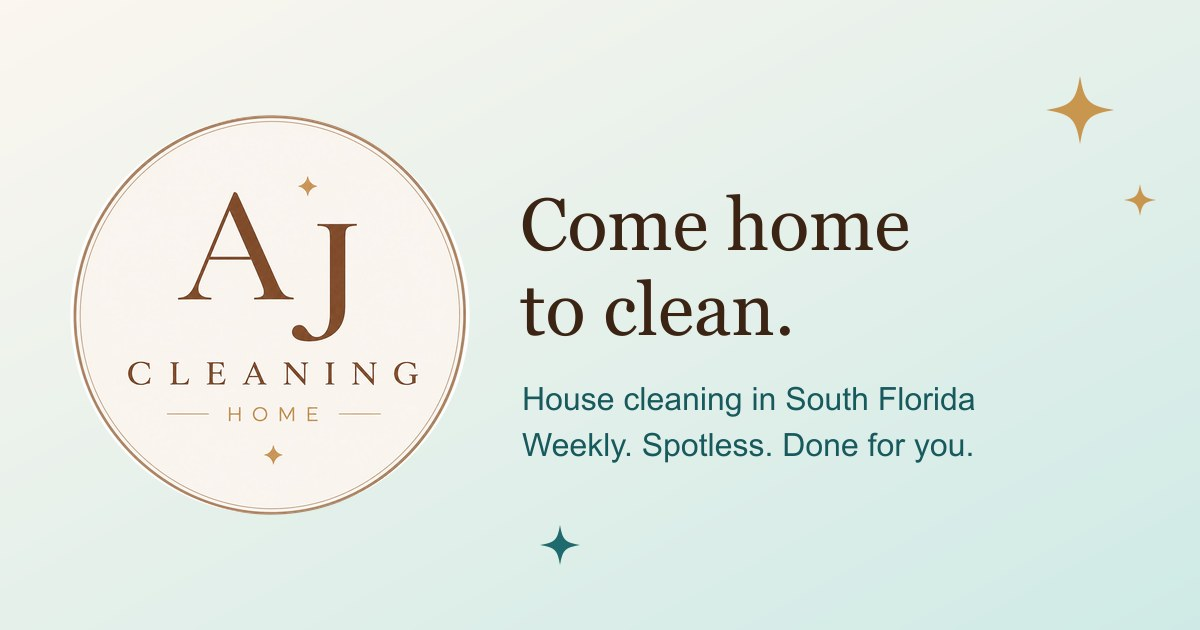
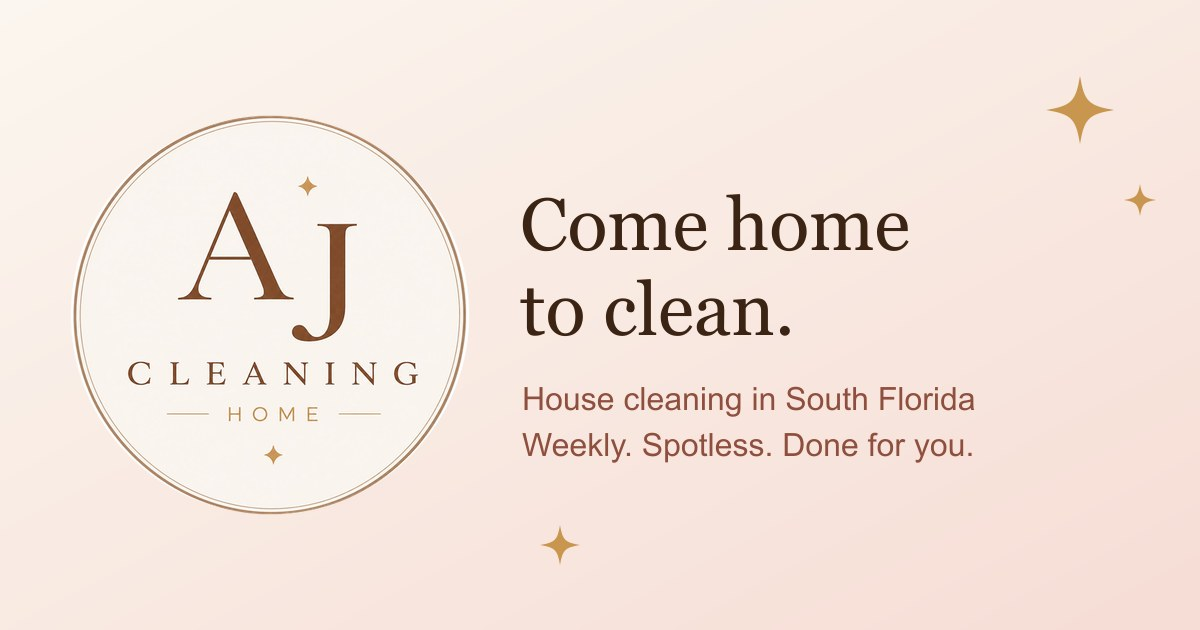
Paleta pastel sin azul ni verde y fotos reales del cliente
- Escala verde-azul reemplazada por rosa pastel (--blush-*) y durazno (--peach),
  con café cacao del logo para botones y texto. Contrastes AA verificados.
- Sección de planes pasa de fondo oscuro a durazno claro.
- Imagen Open Graph regenerada con la paleta nueva.
- Fotos del cliente: cocina de roble en "cuarto por cuarto" y cocina gris en
  ventanas/alfombras/electrodomésticos, recortadas y sin metadatos.

diff --git a/src/styles/global.css b/src/styles/global.css
@@ -8,13 +8,14 @@
   --ink-soft: #6b5242;
   --gold: #c8964f;
   /* Limpieza: verde mar pastel, complementario del café. */
-  --sea-50: #eef8f6;
-  --sea-100: #d9f0ec;
-  --sea-200: #bfe5df;
-  --sea-300: #98d4cc;
-  --sea-700: #17595c;
-  --sea-800: #134a4d;
-  --sea-900: #0f3a3d;
+  --peach: #fbe7d6;
+  --blush-50: #fdf4f1;
+  --blush-100: #f8e6e0;
+  --blush-200: #f0d0c6;
+  --blush-300: #e4b3a5;
+  --blush-700: #8e4f3e;
+  --blush-800: #763f31;
+  --blush-900: #4a2a20;
   --line: rgb(60 36 21 / 0.14);
 
   --display: 'Cormorant Garamond', Georgia, 'Times New Roman', serif;
@@ -34,7 +35,7 @@ button, input, select, textarea { font: inherit; color: inherit; }
 h1, h2, h3 { margin: 0; font-weight: 600; }
 p { margin: 0; }
 ul, ol { margin: 0; padding: 0; list-style: none; }
-:focus-visible { outline: 3px solid var(--sea-700); outline-offset: 3px; border-radius: 6px; }
+:focus-visible { outline: 3px solid var(--blush-700); outline-offset: 3px; border-radius: 6px; }
 
 @view-transition { navigation: auto; }
 
@@ -48,18 +49,18 @@ ul, ol { margin: 0; padding: 0; list-style: none; }
 h2.display, .h2 { font-family: var(--display); font-weight: 600; font-size: clamp(2.6rem, 5.6vw, 4.8rem); letter-spacing: -0.015em; line-height: 0.98; }
 .lead { font-size: clamp(1.1rem, 1.6vw, 1.3rem); color: var(--ink-soft); max-width: 46ch; }
 
-.kicker { display: inline-flex; align-items: center; gap: 10px; font-size: 0.8rem; font-weight: 600; letter-spacing: 0.16em; text-transform: uppercase; color: var(--sea-700); }
+.kicker { display: inline-flex; align-items: center; gap: 10px; font-size: 0.8rem; font-weight: 600; letter-spacing: 0.16em; text-transform: uppercase; color: var(--blush-700); }
 .kicker .star { width: 13px; height: 13px; fill: var(--gold); flex: none; }
 
 .btn { display: inline-flex; align-items: center; justify-content: center; gap: 10px; min-height: 54px; padding: 12px 28px; border: 1.5px solid transparent; border-radius: 999px; font-weight: 600; font-size: 1.02rem; line-height: 1.15; text-decoration: none; cursor: pointer; background: none; transition: transform 0.25s var(--ease), background 0.25s, color 0.25s, border-color 0.25s, box-shadow 0.25s; }
 .btn svg { width: 19px; height: 19px; flex: none; transition: translate 0.25s var(--ease); }
 .btn:hover { transform: translateY(-2px); }
 .btn:hover svg:last-child { translate: 3px 0; }
-.btn--primary { background: var(--sea-700); color: #fff; box-shadow: 0 14px 30px -14px rgb(19 74 77 / 0.7); }
-.btn--primary:hover { background: var(--sea-800); }
+.btn--primary { background: var(--blush-700); color: #fff; box-shadow: 0 14px 30px -14px rgb(118 63 49 / 0.7); }
+.btn--primary:hover { background: var(--blush-800); }
 .btn--line { border-color: rgb(60 36 21 / 0.35); color: var(--ink); }
 .btn--line:hover { background: var(--ink); border-color: var(--ink); color: #fff; }
-.btn--cream { background: var(--cream); color: var(--sea-900); }
+.btn--cream { background: var(--cream); color: var(--blush-900); }
 .btn--cream:hover { background: #fff; }
 .btn--wa { background: #1f8f55; color: #fff; }
 .btn--wa:hover { background: #18774a; }
@@ -75,7 +76,7 @@ h2.display, .h2 { font-family: var(--display); font-weight: 600; font-size: clam
 }
 
 /* Páginas internas */
-.page-hero { position: relative; padding-block: clamp(120px, 15vw, 176px) clamp(44px, 6vw, 72px); background: linear-gradient(165deg, var(--cream) 30%, var(--sea-100)); overflow: hidden; }
+.page-hero { position: relative; padding-block: clamp(120px, 15vw, 176px) clamp(44px, 6vw, 72px); background: linear-gradient(165deg, var(--cream) 30%, var(--blush-100)); overflow: hidden; }
 .page-hero h1 { font-family: var(--display); font-size: clamp(2.8rem, 6.6vw, 5.4rem); line-height: 0.98; letter-spacing: -0.015em; max-width: 17ch; margin: 14px 0 18px; }
 .page-hero .lead { margin-bottom: 28px; }
 .crumbs { display: flex; flex-wrap: wrap; gap: 6px; font-size: 0.9rem; color: var(--ink-soft); }
@@ -85,5 +86,5 @@ h2.display, .h2 { font-family: var(--display); font-weight: 600; font-size: clam
 .cta-row { display: flex; flex-wrap: wrap; gap: 12px; align-items: center; }
 .link-grid { display: grid; grid-template-columns: repeat(auto-fill, minmax(230px, 1fr)); gap: 12px; }
 .link-card { display: flex; align-items: center; justify-content: space-between; gap: 12px; padding: 16px 20px; background: #fff; border: 1px solid var(--line); border-radius: 16px; font-weight: 600; text-decoration: none; transition: border-color 0.2s, transform 0.3s var(--ease); }
-.link-card svg { width: 18px; height: 18px; flex: none; color: var(--sea-700); }
-.link-card:hover { border-color: var(--sea-700); transform: translateY(-2px); }
+.link-card svg { width: 18px; height: 18px; flex: none; color: var(--blush-700); }
+.link-card:hover { border-color: var(--blush-700); transform: translateY(-2px); }

diff --git a/src/lib/photos.ts b/src/lib/photos.ts
@@ -1,4 +1,7 @@
-/** Fotos de ambiente: de archivo, no trabajos del negocio. Origen en src/assets/photos/CREDITS.md. */
+/**
+ * Fotos del sitio. room-kitchen y service-addons son del cliente (AJ Cleaning Home);
+ * las demás son de archivo, no trabajos del negocio. Origen en src/assets/photos/CREDITS.md.
+ */
 import type { L } from '../data/i18n';
 import heroApartment from '../assets/photos/hero-home.jpg';
 import roomKitchen from '../assets/photos/room-kitchen.jpg';
@@ -26,7 +29,7 @@ export const heroPhoto: Photo = {
 };
 
 export const roomPhotos: Record<string, Photo> = {
-  kitchen: { src: roomKitchen, alt: { en: 'Clean kitchen with an island, wood cabinets and a wood floor', es: 'Cocina limpia con isla, gabinetes y piso de madera' } },
+  kitchen: { src: roomKitchen, alt: { en: 'Clean kitchen with oak cabinets, a white gas stove and a wood floor', es: 'Cocina limpia con gabinetes de roble, estufa de gas blanca y piso de madera' } },
   bath: { src: roomBathroom, alt: { en: 'Clean bathroom with vanity, toilet and tiled shower', es: 'Baño limpio con lavamanos, inodoro y ducha de baldosa' } },
   bedroom: { src: roomBedroom, alt: { en: 'Bedroom with a made bed and clean carpet', es: 'Habitación con la cama hecha y la alfombra limpia' } },
   living: { src: roomLiving, alt: { en: 'Living room with sofa, coffee table and wood floor', es: 'Sala con sofá, mesa de centro y piso de madera' } },
@@ -41,5 +44,5 @@ export const servicePhotos: Record<string, Photo> = {
   realtor: { src: realtor, alt: { en: 'Empty apartment with a fitted kitchen, ready to show', es: 'Apartamento vacío con cocina integral, listo para mostrar' } },
   construction: { src: construction, alt: { en: 'Apartment with a ladder still inside after a remodel', es: 'Apartamento con una escalera adentro después de una remodelación' } },
   laundry: { src: laundry, alt: { en: 'Hand loading clothes into a washing machine', es: 'Mano metiendo ropa en una lavadora' } },
-  addons: { src: addons, alt: { en: 'Kitchen with stainless steel appliances', es: 'Cocina con electrodomésticos de acero inoxidable' } },
+  addons: { src: addons, alt: { en: 'Kitchen with gray cabinets, a stainless steel stove and microwave', es: 'Cocina con gabinetes grises, estufa y microondas de acero inoxidable' } },
 };

diff --git a/src/data/services.ts b/src/data/services.ts
@@ -7,7 +7,7 @@ export type Service = {
   id: string;
   slug: L;
   icon: IconName;
-  tint: 'sea' | 'cream' | 'sand' | 'mist';
+  tint: 'blush' | 'cream' | 'sand' | 'mist';
   name: L;
   tagline: L;
   title: L;
@@ -30,7 +30,7 @@ export const services: Service[] = [
     id: 'recurring',
     slug: { en: 'recurring-house-cleaning', es: 'limpieza-recurrente' },
     icon: 'calendar',
-    tint: 'sea',
+    tint: 'blush',
     name: { en: 'Recurring cleaning', es: 'Limpieza recurrente' },
     tagline: { en: 'Your home. Always ready.', es: 'Tu casa. Siempre lista.' },
     title: { en: 'Weekly & Biweekly House Cleaning in Miami | AJ Cleaning Home', es: 'Limpieza de casas semanal y quincenal en Miami | AJ Cleaning Home' },
@@ -196,7 +196,7 @@ export const services: Service[] = [
     id: 'office',
     slug: { en: 'office-cleaning', es: 'limpieza-de-oficinas' },
     icon: 'office',
-    tint: 'sea',
+    tint: 'blush',
     name: { en: 'Office cleaning', es: 'Limpieza de oficinas' },
     tagline: { en: 'Monday-morning ready.', es: 'Lista para el lunes.' },
     title: { en: 'Office Cleaning in Miami & Fort Lauderdale | AJ Cleaning Home', es: 'Limpieza de oficinas en Miami y Fort Lauderdale | AJ Cleaning Home' },
@@ -354,7 +354,7 @@ export const services: Service[] = [
     id: 'addons',
     slug: { en: 'windows-carpet-appliance-cleaning', es: 'ventanas-alfombras-electrodomesticos' },
     icon: 'window',
-    tint: 'sea',
+    tint: 'blush',
     name: { en: 'Windows, carpets & appliances', es: 'Ventanas, alfombras y electrodomésticos' },
     tagline: { en: 'The details people skip.', es: 'Los detalles que otros saltan.' },
     title: { en: 'Window, Carpet & Appliance Cleaning in Miami | AJ Cleaning Home', es: 'Ventanas, alfombras y electrodomésticos | AJ Cleaning Home' },

diff --git a/src/scripts/recurring.ts b/src/scripts/recurring.ts
@@ -36,7 +36,7 @@ function init(panel: HTMLElement) {
     line.setAttribute('d', current.path);
     area.setAttribute('d', `${current.path}L${chartX(CHART.weeks)} ${chartY(0)}L${chartX(0)} ${chartY(0)}Z`);
     dots.innerHTML = cleanWeeks(current.interval)
-      .map((w) => `<circle class="dot" cx="${chartX(w)}" cy="${chartY(1)}" r="4.5" style="fill:#bfe5df;stroke:#0f3a3d;stroke-width:2"></circle>`)
+      .map((w) => `<circle class="dot" cx="${chartX(w)}" cy="${chartY(1)}" r="4.5" style="fill:#8e4f3e;stroke:#fbe7d6;stroke-width:2"></circle>`)
       .join('');
 
     q('[data-rec-caption]').textContent = current.caption;

diff --git a/src/scripts/hero.ts b/src/scripts/hero.ts
@@ -219,7 +219,7 @@ function init(track: HTMLElement, hero: HTMLElement) {
   /* ---------- Destellos: la estrella del logo ---------- */
   type Spark = { x: number; y: number; vx: number; vy: number; life: number; ttl: number; size: number; color: string; spin: number };
   const sparks: Spark[] = [];
-  const COLORS = ['#ffffff', '#ffffff', '#c8964f', '#98d4cc'];
+  const COLORS = ['#ffffff', '#ffffff', '#c8964f', '#e4b3a5'];
   let sparkRaf = 0;
 
   function emit(x: number, y: number, n: number) {

diff --git a/src/assets/photos/CREDITS.md b/src/assets/photos/CREDITS.md
@@ -5,7 +5,7 @@ Fotos de archivo encontradas con Openverse, con licencia CC0 o marca de dominio 
 | Archivo | Título | Autor | Fuente | Licencia | Enlace |
 |---|---|---|---|---|---|
 | hero-home.jpg | Living room | Foto Miki Digital | flickr | PDM 1.0 | https://www.flickr.com/photos/96511847@N04/9200612133 |
-| room-kitchen.jpg | Housing improvement project goal 1: two-bedroom unit, kitchen | YellowstoneNPS | flickr | PDM 1.0 | https://www.flickr.com/photos/80223459@N05/52067013963 |
+| room-kitchen.jpg | Cocina | AJ Cleaning Home | Cliente | Uso autorizado por el cliente | — |
 | room-bathroom.jpg | Modern home interior | sin autor indicado | rawpixel | CC0 1.0 | https://www.rawpixel.com/image/9658355/modern-home-interior |
 | room-bedroom.jpg | Housing improvement project goal 1: one-bedroom unit, bedroom | YellowstoneNPS | flickr | PDM 1.0 | https://www.flickr.com/photos/80223459@N05/52066993881 |
 | room-living.jpg | Housing improvement project goal 1: two-bedroom unit, living room | YellowstoneNPS | flickr | PDM 1.0 | https://www.flickr.com/photos/80223459@N05/52067485855 |
@@ -17,6 +17,6 @@ Fotos de archivo encontradas con Openverse, con licencia CC0 o marca de dominio 
 | service-realtor.jpg | Empty apartment in Berlin with fitted kitchen and chair | SmashingIt99 | wikimedia | CC0 1.0 | https://commons.wikimedia.org/w/index.php?curid=147049469 |
 | service-construction.jpg | Empty apartment in Berlin with white desk, chair and ladder 01 | SmashingIt99 | wikimedia | CC0 1.0 | https://commons.wikimedia.org/w/index.php?curid=147049467 |
 | service-laundry.jpg | Changing the laundry | Kim Siever | flickr | PDM 1.0 | https://www.flickr.com/photos/57873306@N00/3673853584 |
-| service-addons.jpg | Modern Kitchen | Foto Miki Digital | flickr | PDM 1.0 | https://www.flickr.com/photos/96511847@N04/9200419155 |
+| service-addons.jpg | Cocina gris | AJ Cleaning Home | Cliente | Uso autorizado por el cliente | — |
 
 Nota: `hero-home.jpg` está escalada desde 1024 px, la mayor copia descargable. Conviene reemplazarla por una versión de mayor resolución.
